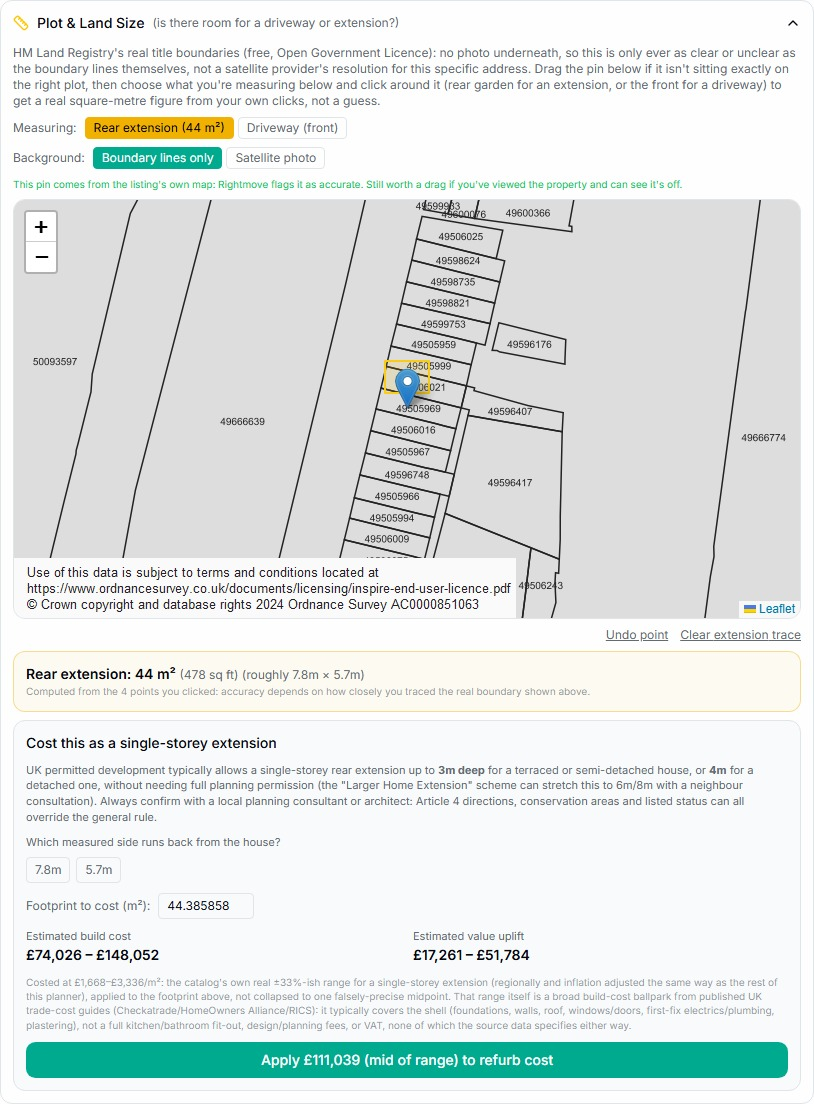
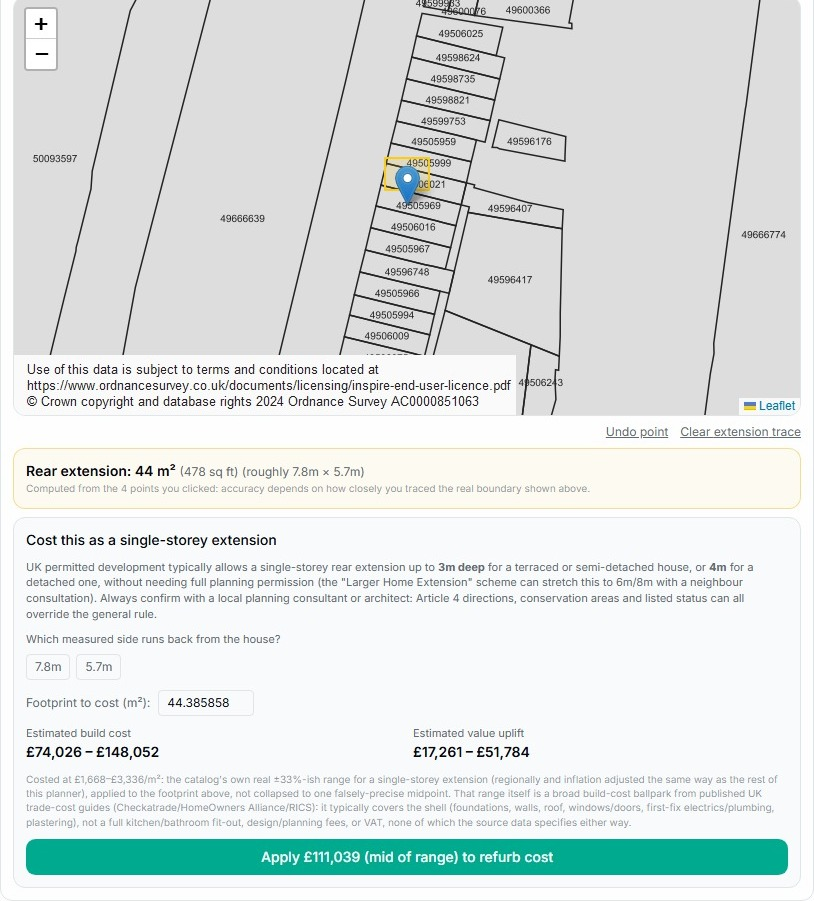
Match Condition Survey and Plot & Land Size card heights
Drop the itemised kitchen/bathroom costing crop, whose Bathroom suite box was being cropped too tight at the bottom edge, and keep only the Works Impact summary (total cost, value uplift, ROI, apply-to-refurb) as the single cost-implications visual. Trim the Plot & Land Size screenshot's redundant header and intro paragraph (already covered by the surrounding card copy), bringing both cards to within about 20px of the same height (917px vs 895px) instead of a 250px+ mismatch, with no content cut off in either.

diff --git a/index.html b/index.html
@@ -333,12 +333,8 @@
               <img src="assets/screens/condition-survey-findings.jpg" width="864" height="550" alt="BoaTenure Condition Survey showing tired-rated Exterior and Living Room findings, each citing a source photo">
             </button>
             <div class="reno-extra-shots">
-              <button class="reno-extra-shot image-button" type="button" data-lightbox="assets/screens/condition-survey-suggestions.jpg" data-caption="Costed recommended works with photo evidence">
-                <span>COSTED RECOMMENDED WORKS</span>
-                <img src="assets/screens/condition-survey-suggestions.jpg" width="864" height="510" alt="BoaTenure Condition Survey recommended kitchen and bathroom works with cost ranges and evidence">
-              </button>
               <button class="reno-extra-shot image-button" type="button" data-lightbox="assets/screens/condition-survey-impact.jpg" data-caption="Works Impact, deal metrics and apply to refurb cost">
-                <span>WORKS IMPACT → APPLY TO REFURB</span>
+                <span>COST IMPLICATIONS · WORKS IMPACT</span>
                 <img src="assets/screens/condition-survey-impact.jpg" width="864" height="367" alt="BoaTenure Condition Survey Works Impact summary applying the costed total to the deal's refurb budget">
               </button>
             </div>
@@ -352,7 +348,7 @@
               <p>HM Land Registry's own title boundaries sit under the map, so a traced extension produces a genuine square-metre figure. UK permitted development limits, a regional cost range and a value-uplift estimate appear together, ready to apply to the refurb budget.</p>
             </div>
             <button class="image-button" type="button" data-lightbox="assets/screens/plot-land-size.jpg" data-caption="Plot & Land Size: a traced rear extension against real title boundaries">
-              <img src="assets/screens/plot-land-size.jpg" width="814" height="1104" alt="BoaTenure Plot and Land Size showing a traced rear extension against HM Land Registry title boundaries, with permitted development guidance and costed value uplift">
+              <img src="assets/screens/plot-land-size.jpg" width="814" height="901" alt="BoaTenure Plot and Land Size showing a traced rear extension against HM Land Registry title boundaries, with permitted development guidance and costed value uplift">
             </button>
           </article>
         </div>
